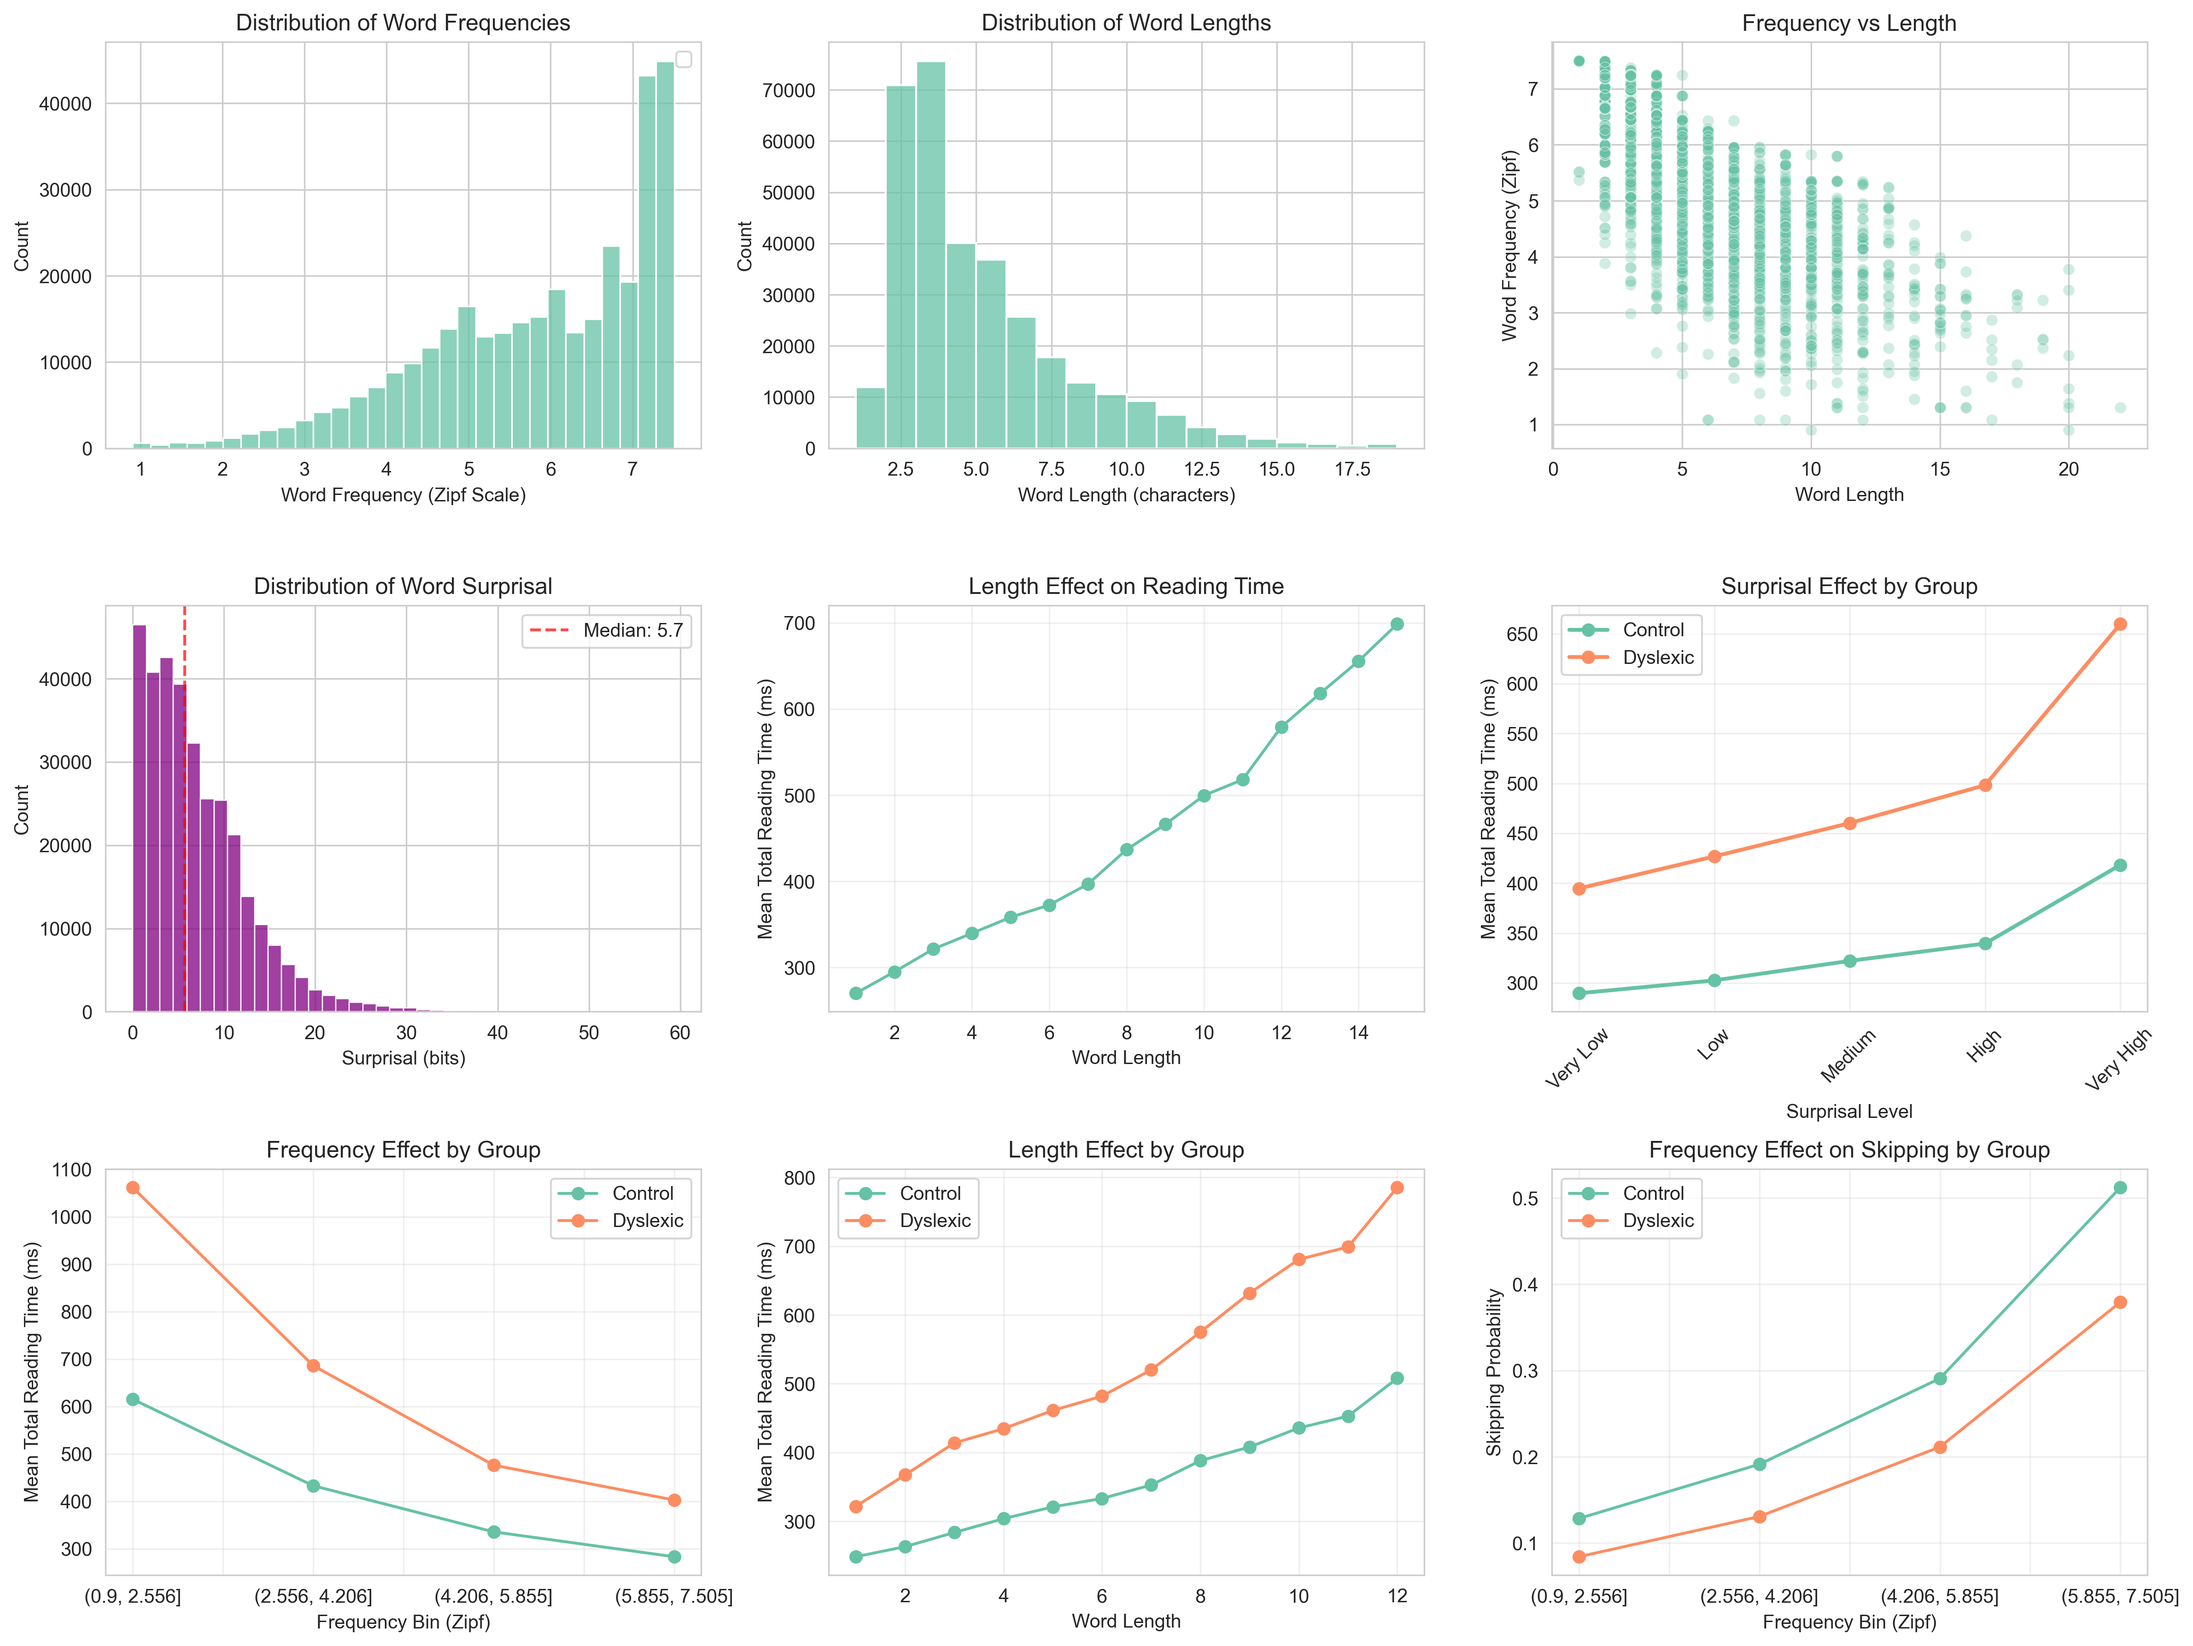
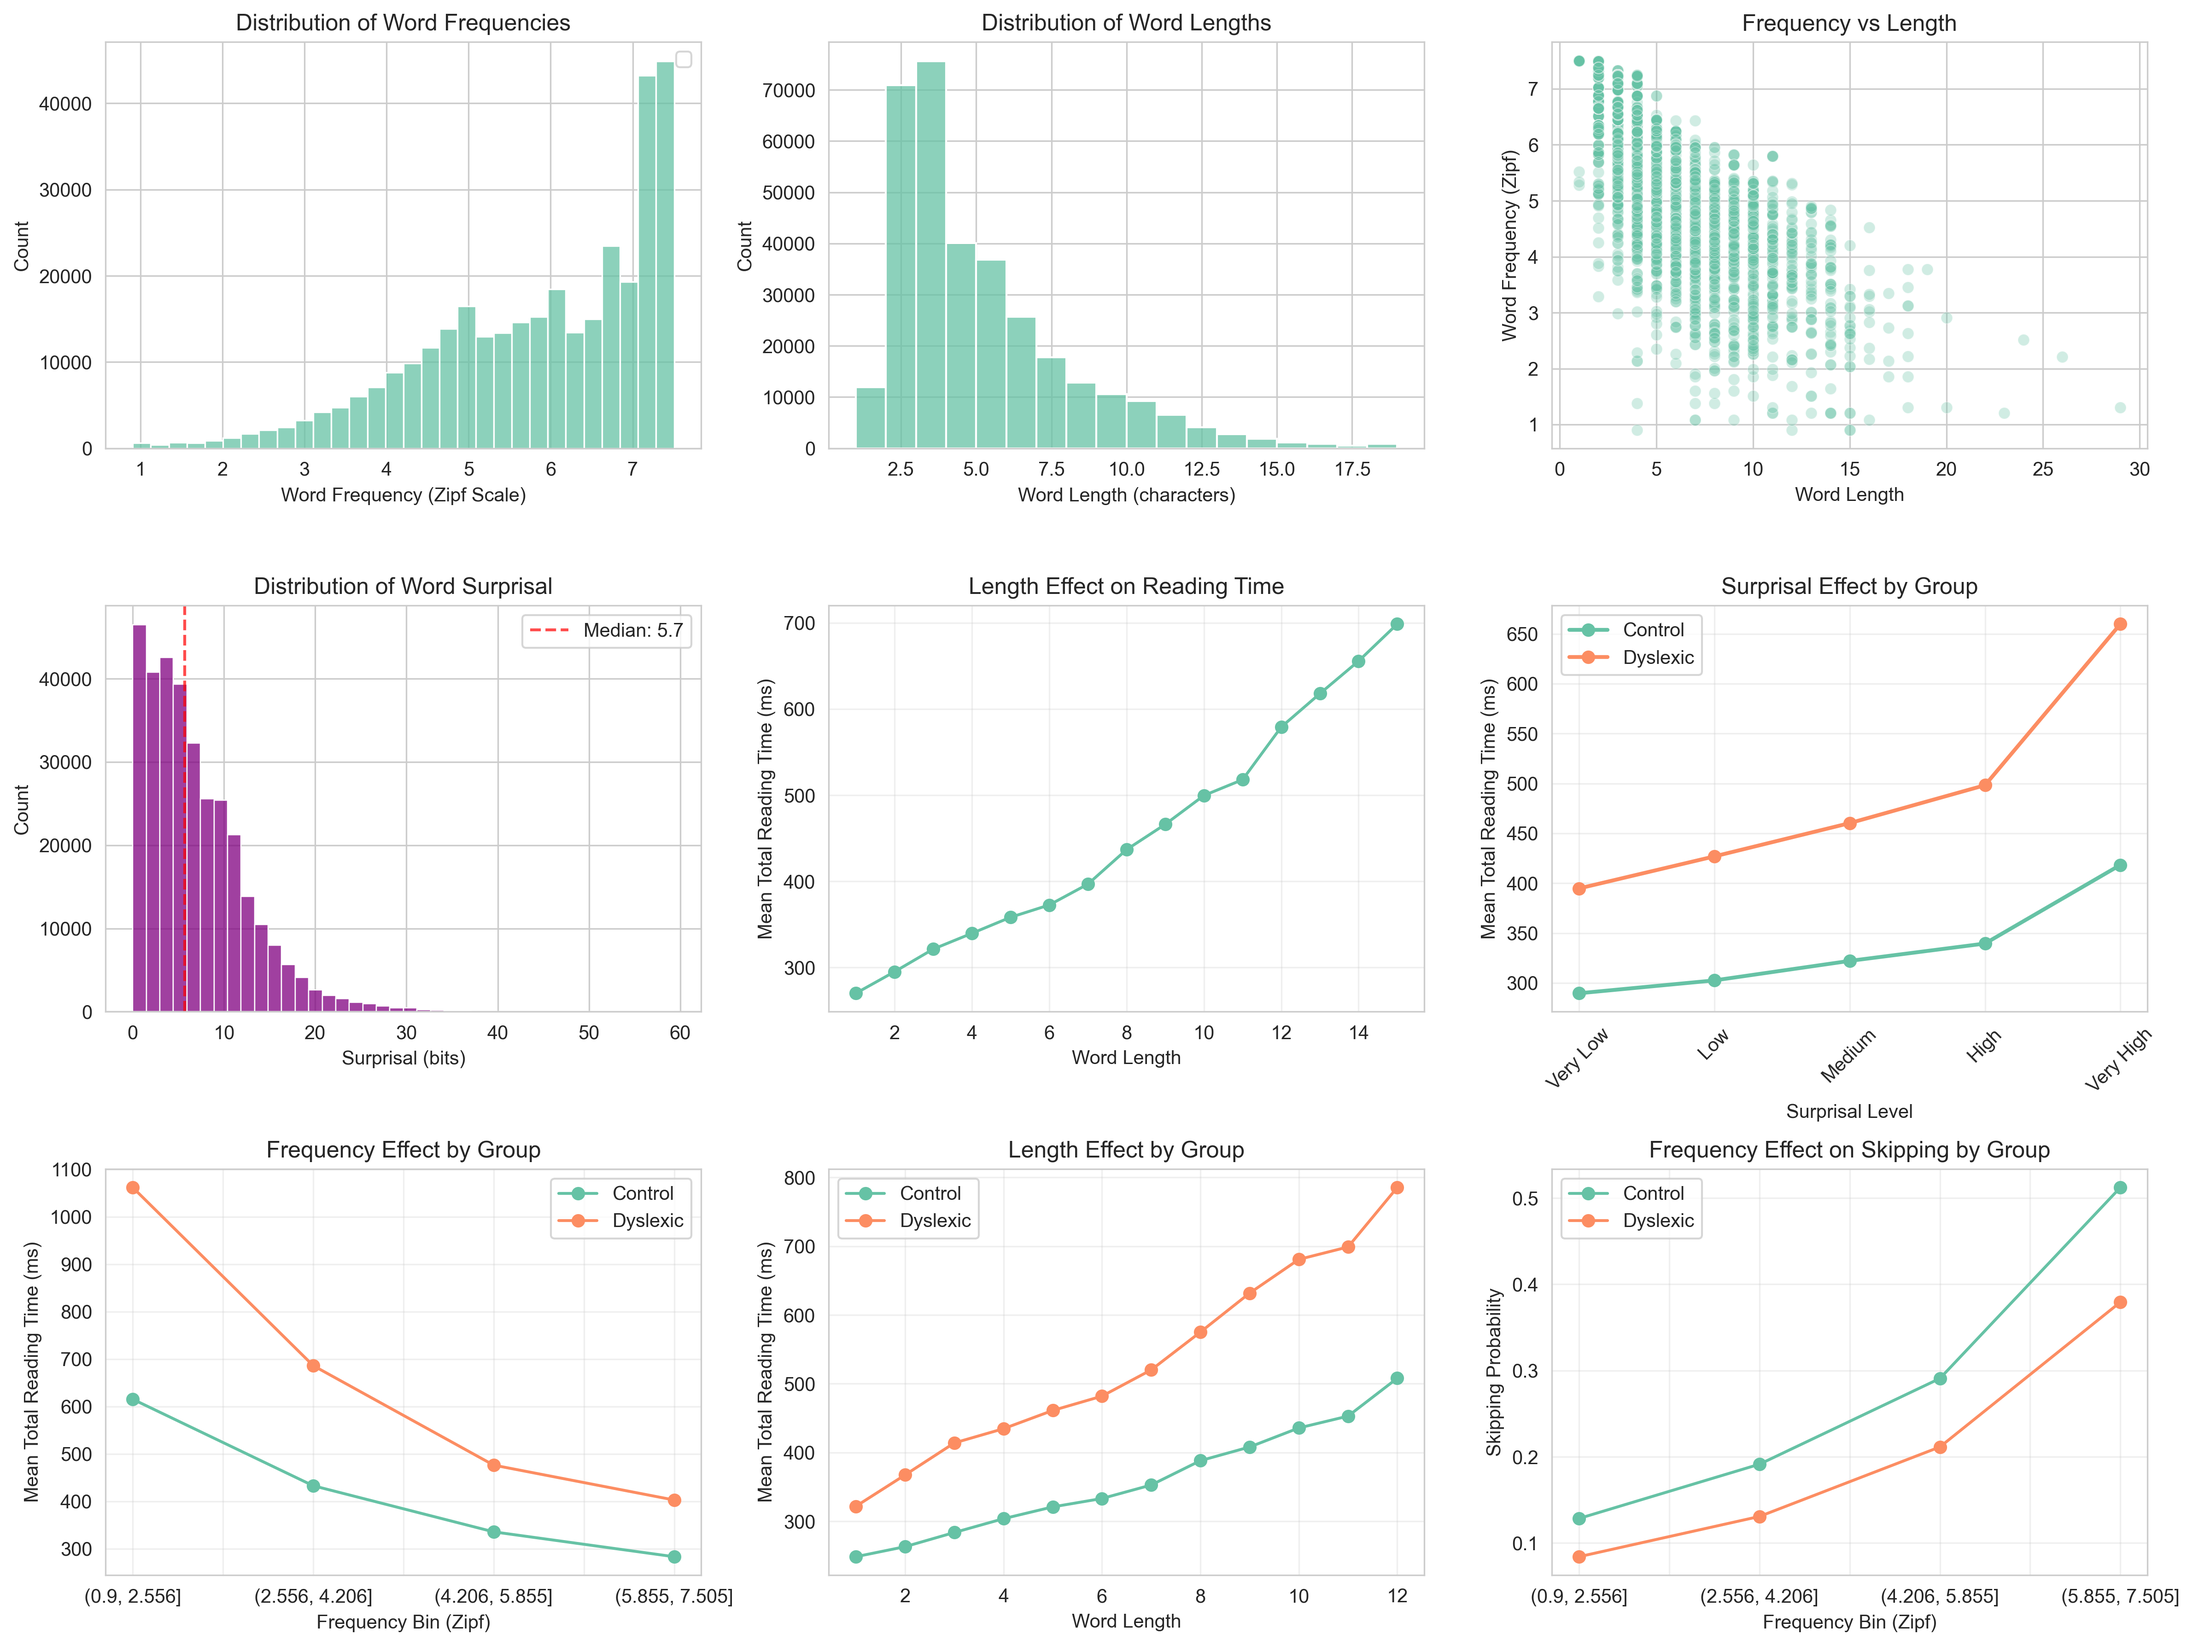
readme: Final cleanup and revision of README guide

Changed region(s): [[0.715, 0.031, 0.9326, 0.2794]]

diff --git a/README.md b/README.md
@@ -1,7 +1,3 @@
-Here’s a clean, step-by-step **README.md** you can drop in the repo.
-
----
-
 # Dyslexia Time Cost Analysis
 
 End-to-end pipeline to preprocess CopCo eye-tracking data, compute linguistic features, fit GAM models for skipping and duration, and test three hypotheses (H1–H3) with APA-7-styled figures.
